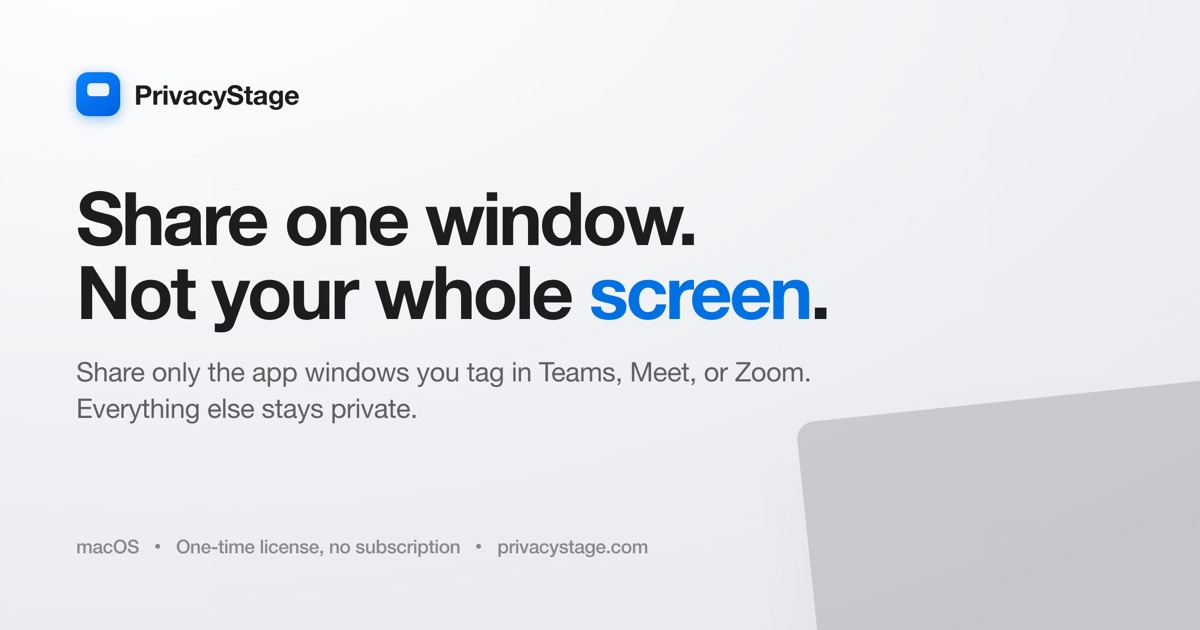
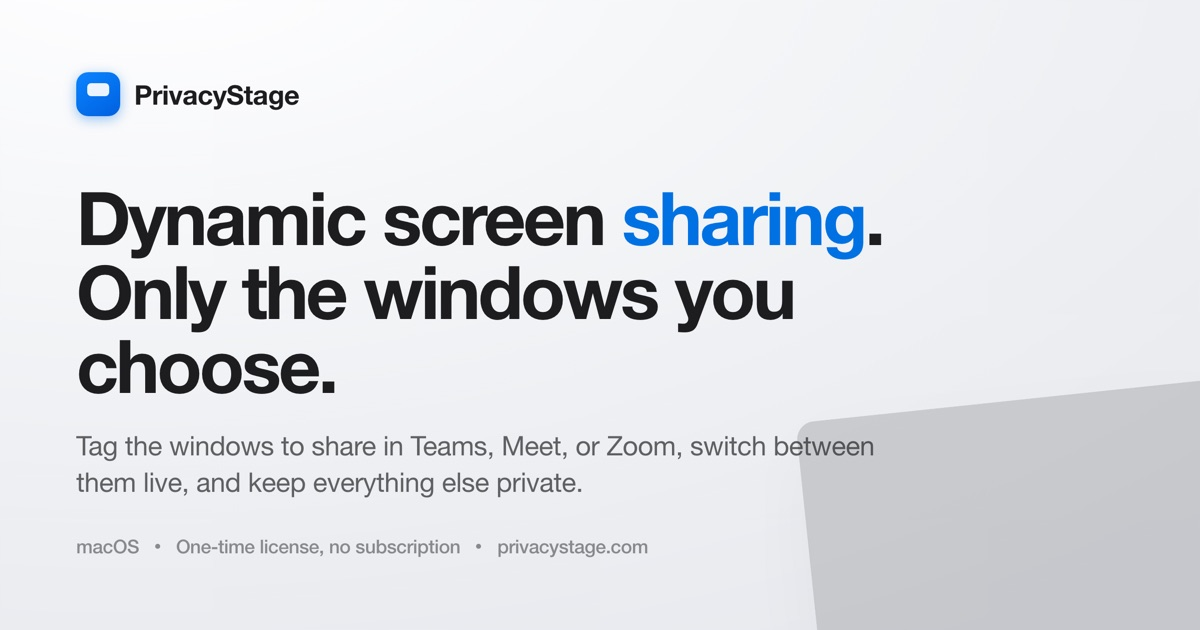
Pivot hero to "Dynamic screen sharing" + new OG image

Changed region(s): [[0.0617, 0.3016, 0.74, 0.6635], [0.0617, 0.6937, 0.74, 0.7238], [0.0617, 0.754, 0.4933, 0.7841]]

diff --git a/index.html b/index.html
@@ -3,11 +3,11 @@
 <head>
 <meta charset="UTF-8" />
 <meta name="viewport" content="width=device-width, initial-scale=1" />
-<title>PrivacyStage: Share one window. Not your whole screen.</title>
-<meta name="description" content="PrivacyStage creates virtual monitors on macOS, tags the app windows you choose, and shares only those in Teams, Meet, or Zoom, and the view follows whichever tagged window you're using." />
+<title>PrivacyStage: Dynamic screen sharing for macOS</title>
+<meta name="description" content="Dynamic screen sharing for Mac. Tag the app windows you want to share in Teams, Meet, or Zoom, switch between them live without re-sharing, and keep everything else private." />
 <link rel="canonical" href="https://privacystage.com/" />
-<meta property="og:title" content="PrivacyStage: Share one window. Not your whole screen." />
-<meta property="og:description" content="Virtual monitors for macOS. Share only the windows you tag; the view follows your active window." />
+<meta property="og:title" content="PrivacyStage: Dynamic screen sharing for macOS" />
+<meta property="og:description" content="Share only the windows you choose, switch between them live, and keep everything else private. Dynamic screen sharing for Mac." />
 <meta property="og:type" content="website" />
 <meta property="og:site_name" content="PrivacyStage" />
 <meta property="og:url" content="https://privacystage.com/" />
@@ -16,10 +16,10 @@
 <meta property="og:image:type" content="image/jpeg" />
 <meta property="og:image:width" content="1200" />
 <meta property="og:image:height" content="630" />
-<meta property="og:image:alt" content="PrivacyStage — share one window, not your whole screen." />
+<meta property="og:image:alt" content="PrivacyStage — dynamic screen sharing for macOS." />
 <meta name="twitter:card" content="summary_large_image" />
-<meta name="twitter:title" content="PrivacyStage: Share one window. Not your whole screen." />
-<meta name="twitter:description" content="Virtual monitors for macOS. Share only the windows you tag; the view follows your active window." />
+<meta name="twitter:title" content="PrivacyStage: Dynamic screen sharing for macOS" />
+<meta name="twitter:description" content="Share only the windows you choose, switch between them live, and keep everything else private. Dynamic screen sharing for Mac." />
 <meta name="twitter:image" content="https://privacystage.com/assets/og-image.jpg" />
 <link rel="icon" type="image/png" href="assets/favicon.png" />
 <link rel="stylesheet" href="styles.css" />
@@ -30,7 +30,7 @@
   "name": "PrivacyStage",
   "operatingSystem": "macOS 14.0 or later",
   "applicationCategory": "UtilitiesApplication",
-  "description": "PrivacyStage creates virtual monitors on macOS. Tag the app windows you choose and share only those in Teams, Meet, or Zoom. The shared view follows whichever tagged window you're using, and everything else stays private.",
+  "description": "Dynamic screen sharing for macOS. Tag the app windows you choose and share only those in Teams, Meet, or Zoom, switching between them live without re-sharing. The shared view follows whichever tagged window you're using, and everything else stays private.",
   "url": "https://privacystage.com/",
   "downloadUrl": "https://privacystage.com/#pricing",
   "image": "https://privacystage.com/assets/og-image.jpg",
@@ -70,8 +70,8 @@
     <span class="badge">Apple Silicon &amp; Intel</span>
     <span class="badge">Direct download</span>
   </div>
-  <h1 class="reveal d1">Share one window.<br />Not your whole <span class="accent-word">screen</span>.</h1>
-  <p class="lead reveal d2">PrivacyStage creates virtual monitors on your Mac, lets you tag just the app windows you choose, and shares only those in Teams, Meet, or Zoom, and the shared view <strong>follows whichever tagged window you're using</strong>.</p>
+  <h1 class="reveal d1">Dynamic screen <span class="accent-word">sharing</span>.<br />Only the windows you choose.</h1>
+  <p class="lead reveal d2">Tag the app windows you want to share in Teams, Meet, or Zoom, <strong>switch between them live without re-sharing</strong>, and keep everything else private.</p>
   <div class="cta-row hero-cta reveal d3">
     <a href="#pricing" class="btn btn-primary btn-lg" data-scroll>Start 3-day free trial</a>
     <a href="#how" class="btn btn-secondary btn-lg" data-scroll>See how it works</a>